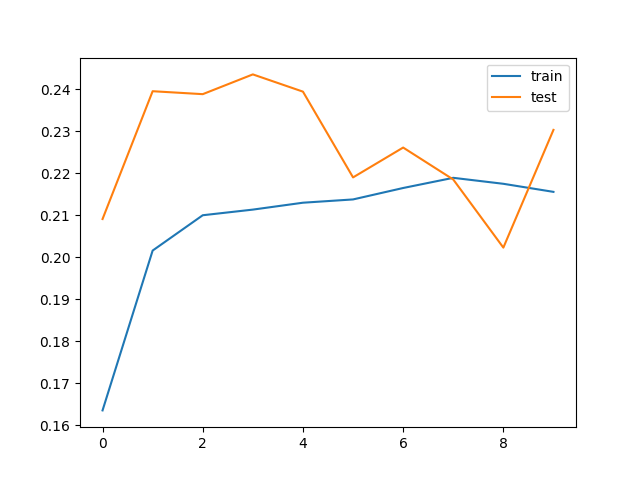
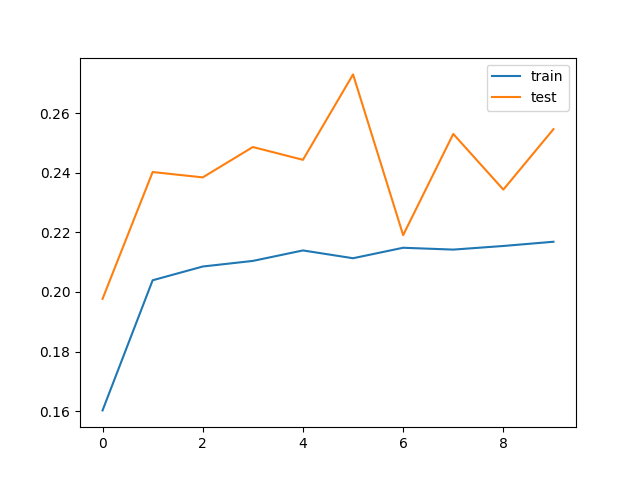
update back

diff --git a/vision-a3/src/vgg16.py b/vision-a3/src/vgg16.py
@@ -36,7 +36,6 @@ def create_model(
     x = preprocess_input(x)
     x = base_model(x, training=False)
     x = global_average_layer(x)
-    x = tf.keras.layers.Dense(16, activation="relu")(x)
     x = tf.keras.layers.Dropout(0.2)(x)
     outputs = prediction_layer(x)
     return tf.keras.Model(inputs, outputs)
